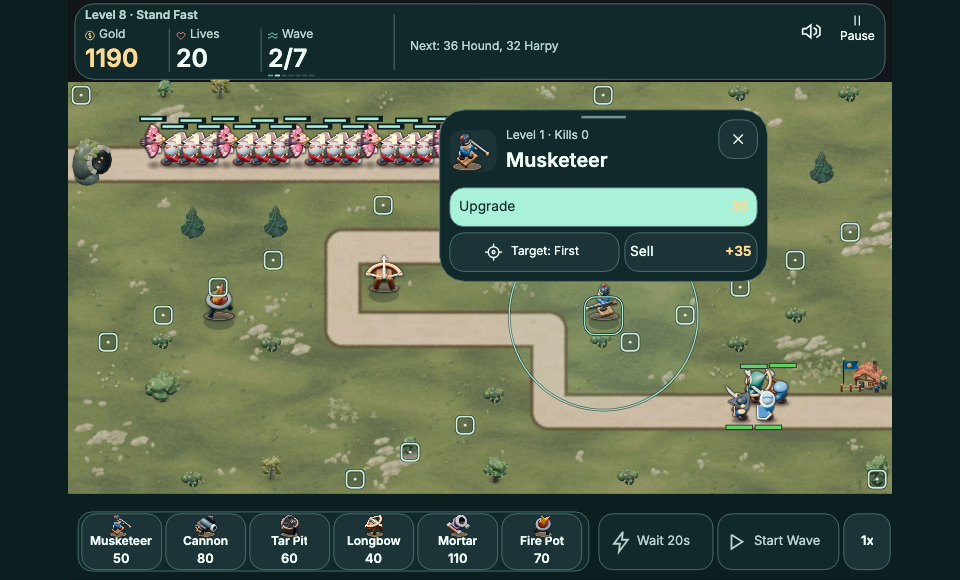
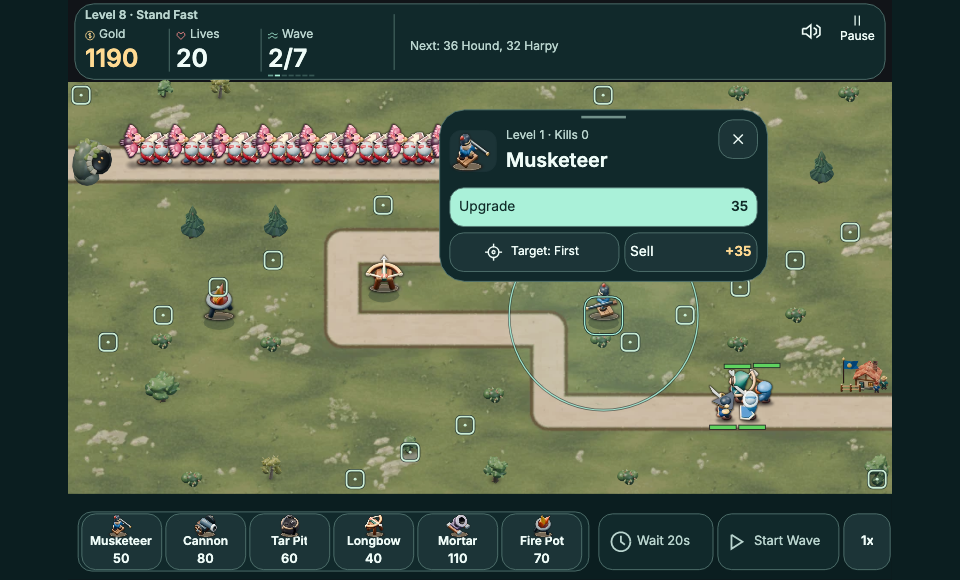
Use dark ink for values on mint buttons

diff --git a/e2e/button-contrast.spec.ts b/e2e/button-contrast.spec.ts
@@ -1,0 +1,84 @@
+import { expect, test } from '@playwright/test';
+import type { GameScene } from '../src/game/GameScene';
+import type { Button } from '../src/game/ui/button';
+import { api, press } from './campaign';
+import { waitForTitle } from './title';
+
+// WCAG relative luminance for sRGB colours.
+function luminance(rgb: number): number {
+  const [r, g, b] = [16, 8, 0].map(shift => {
+    const channel = ((rgb >> shift) & 255) / 255;
+    return channel <= 0.04045 ? channel / 12.92 : ((channel + 0.055) / 1.055) ** 2.4;
+  });
+  return 0.2126 * r + 0.7152 * g + 0.0722 * b;
+}
+
+function contrast(text: string, fill: number): number {
+  const light = [luminance(Number.parseInt(text.slice(1), 16)), luminance(fill)];
+  return (Math.max(...light) + 0.05) / (Math.min(...light) + 0.05);
+}
+
+test('new button ink has at least 4.5:1 contrast on its painted fill when enabled', async ({ page }, info) => {
+  await page.goto('/?test=1&ui=new');
+  await waitForTitle(page);
+  await press(page, 'title:play');
+  await page.waitForFunction(() => window.__tarpit?.game.scene.isActive('game'));
+
+  const samples = await api(page, t => {
+    const scene = t.game.scene.getScene('game') as GameScene;
+    // Use the same Button class as the live tower panel, in the production build.
+    const ButtonClass = scene['panel']['upgrade'].constructor as typeof Button;
+    const rect = { x: 20, y: 100, width: 260, height: 50 };
+    const samples: { skin: string; primary: boolean; available: boolean; state: string; fill: number; label: string; right?: string }[] = [];
+    for (const skin of ['battle', 'paper'] as const) {
+      for (const primary of [true, false]) {
+        for (const right of [undefined, '35']) {
+          const button = new ButtonClass(scene, rect, 'Upgrade', () => {}, { skin, primary, right });
+          const box = button['box'];
+          const [label, price] = button.labelObjects;
+          const image = button['chrome']!.image as Phaser.GameObjects.Image;
+          const tile = image.texture.getSourceImage() as HTMLCanvasElement;
+          const ctx = tile.getContext('2d')!;
+          for (const available of [true, false]) {
+            button.set(label.text, available);
+            const read = (state: string) => {
+              // Sample the flat fill behind the labels, before text is composited.
+              const [r, g, b, alpha] = ctx.getImageData(tile.width / 2, tile.height / 2, 1, 1).data;
+              if (alpha !== 255 || !label.visible || (price && !price.visible)) throw new Error('Expected an opaque fill and visible button text');
+              const ink = label.style.color;
+              const priceInk = price?.style.color;
+              if (typeof ink !== 'string' || (price && typeof priceInk !== 'string')) throw new Error('Expected solid button ink');
+              samples.push({ skin, primary, available, state, fill: (r << 16) | (g << 8) | b,
+                label: ink, right: typeof priceInk === 'string' ? priceInk : undefined });
+            };
+            read('rest');
+            box.emit('pointerdown');
+            read('pressed');
+            box.emit('pointerout');
+            box.emit('pointerover');
+            read('hovered');
+            box.emit('pointerdown');
+            read('hovered and pressed');
+            box.emit('pointerout');
+            button.setPicked(true);
+            read('picked');
+            button.setPicked(false);
+          }
+        }
+      }
+    }
+    return samples;
+  });
+
+  const ratios = samples.map(({ skin, primary, available, state, fill, label, right }) => ({
+    button: `${skin} ${primary ? 'primary' : 'plain'}${available ? '' : ' disabled'}`,
+    state, available, label: contrast(label, fill), right: right === undefined ? undefined : contrast(right, fill),
+  }));
+  await info.attach('button contrast ratios', { body: JSON.stringify(ratios, null, 2), contentType: 'application/json' });
+  for (const { button, state, available, label, right } of ratios) {
+    if (!available) continue;
+    const where = `${button} ${state} ${right === undefined ? 'without' : 'with'} right-hand text`;
+    expect.soft(label, `${where}: label contrast ${label.toFixed(2)}:1`).toBeGreaterThanOrEqual(4.5);
+    if (right !== undefined) expect.soft(right, `${where}: right-hand contrast ${right.toFixed(2)}:1`).toBeGreaterThanOrEqual(4.5);
+  }
+});

diff --git a/src/game/ui/button.ts b/src/game/ui/button.ts
@@ -452,7 +452,7 @@ export class Button {
     if (this.shown) this.chrome?.finish(this.offsetY);
     if (this.label.style.color !== color) this.label.setColor(color);
     this.label.setY(this.downwardY(this.label, this.label.y, compress));
-    const priceColor = !paper && available ? CLEAN.gold : color;
+    const priceColor = !paper && available && !active ? CLEAN.gold : color;
     if (this.rightLabel && this.rightLabel.style.color !== priceColor) this.rightLabel.setColor(priceColor);
     if (this.rightLabel) this.rightLabel.setY(this.downwardY(this.rightLabel, this.rightLabel.y, compress));
   }

diff --git a/docs/DESIGN.md b/docs/DESIGN.md
@@ -1840,6 +1840,8 @@ height above the title and 6 extra header units in landscape. A portrait
 drawer with two upgrade choices uses 438 units at the board edge to
 clear the selected tower. Other portrait drawers use 456 units. Sell
 receives 46% of the inner width and Target can wrap onto two lines.
+Mint buttons draw right-hand values in the same dark ink as their labels.
+Enabled dark buttons use gold for right-hand values.
 
 Clean measures the type in the canvas text objects it draws. With the device
 font, the role starts at its design size and uses one shared size that fits
